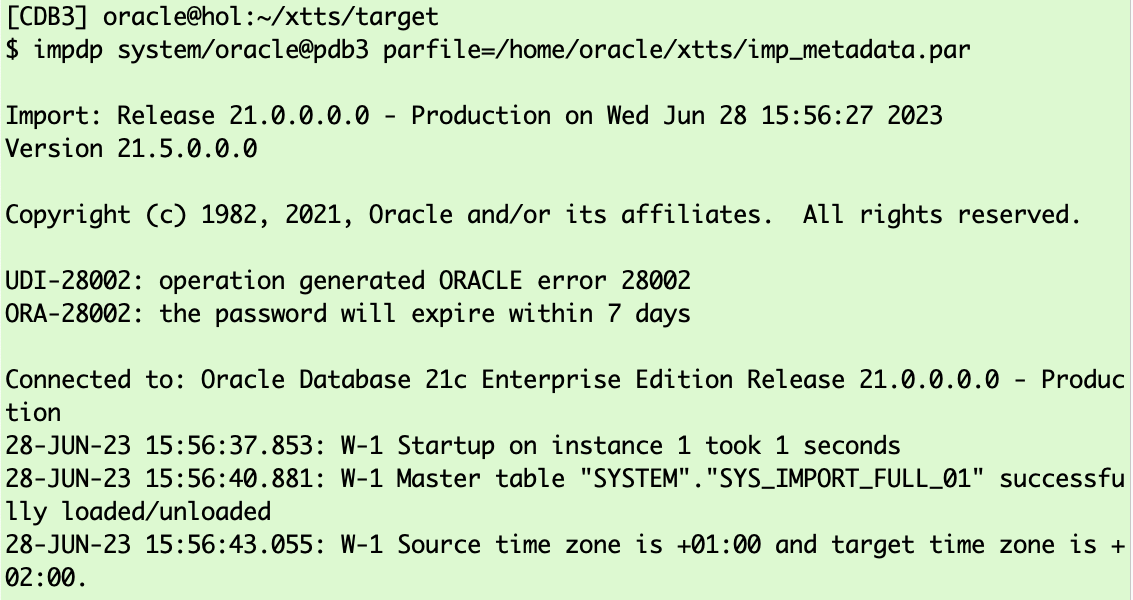
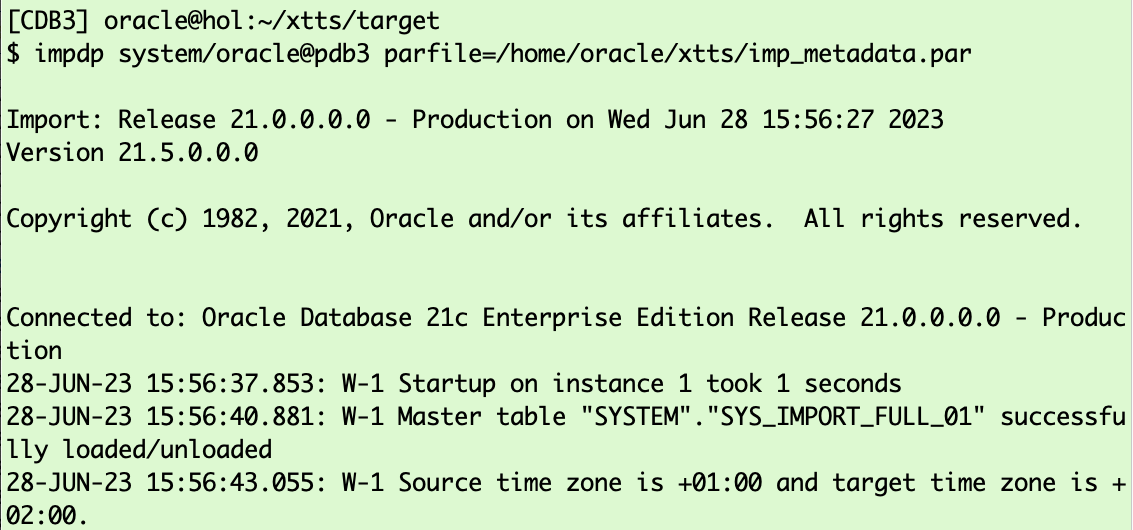
updating images

diff --git a/datapump-x-platform-migration/06-xtts-transport-phase/xtts-transport-phase.md b/datapump-x-platform-migration/06-xtts-transport-phase/xtts-transport-phase.md
@@ -276,7 +276,7 @@ $
   ```
 </details>
 
-## Task 3: TTS Metadata Export (SOURCE)
+## Task 3: TTS Export (SOURCE)
 Between this source and target database version, you can't use __Data Pump network_link__ (will fail with ORA-39169) and you have to export and import the metadata information instead.
 The Data Pump export parameter file "exp_metadata.par" was already created for you and is located in "/home/oracle/xtts/"
 
@@ -530,7 +530,7 @@ $
   ```
 </details>
 
-## Task 4: Metadata Import (TARGET)
+## Task 4: TTS Import (TARGET)
 Also the metadata import parameter file was precreated for you.
 
 ### Step 1: Prepared Import Data Pump Parameter File (TARGET)
@@ -585,8 +585,6 @@ Version 21.5.0.0.0
 
 Copyright (c) 1982, 2021, Oracle and/or its affiliates.  All rights reserved.
 
-UDI-28002: operation generated ORACLE error 28002
-ORA-28002: the password will expire within 7 days
 
 Connected to: Oracle Database 21c Enterprise Edition Release 21.0.0.0.0 - Production
 28-JUN-23 15:56:37.853: W-1 Startup on instance 1 took 1 seconds
